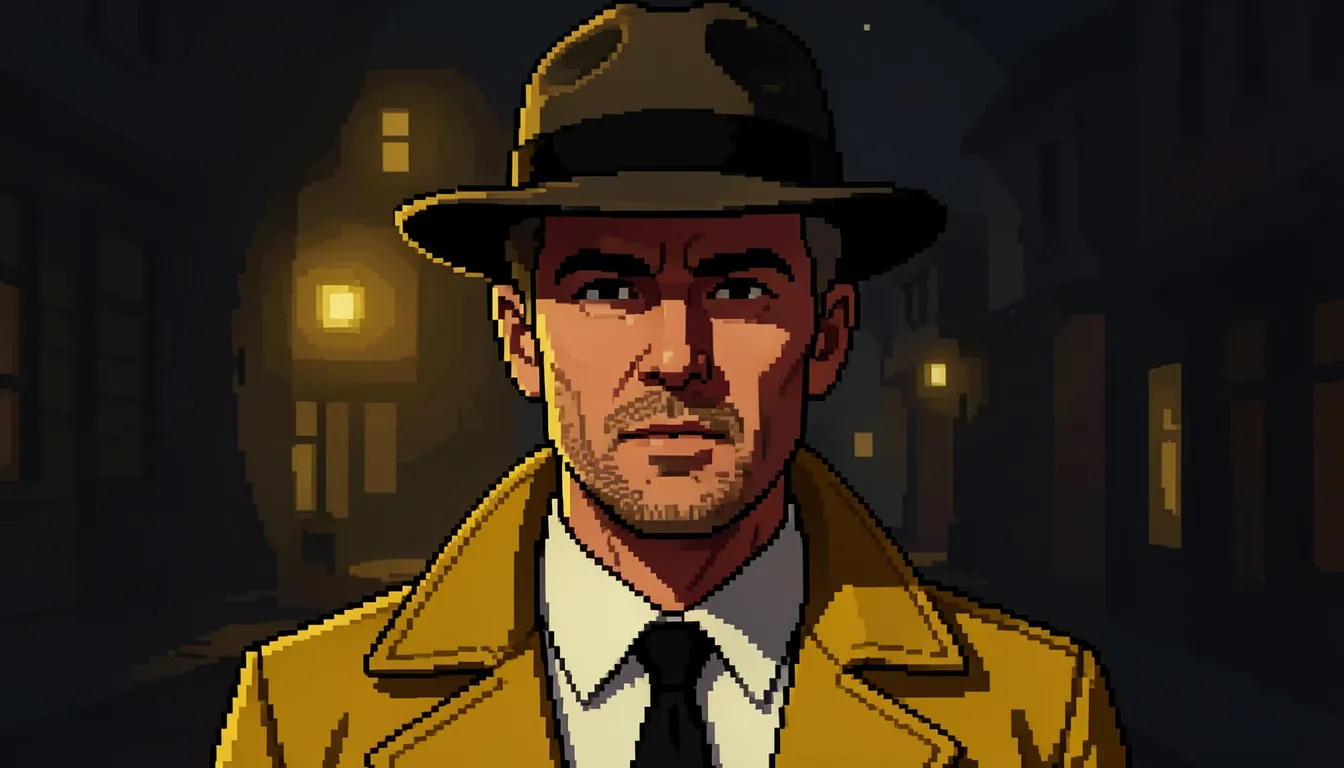
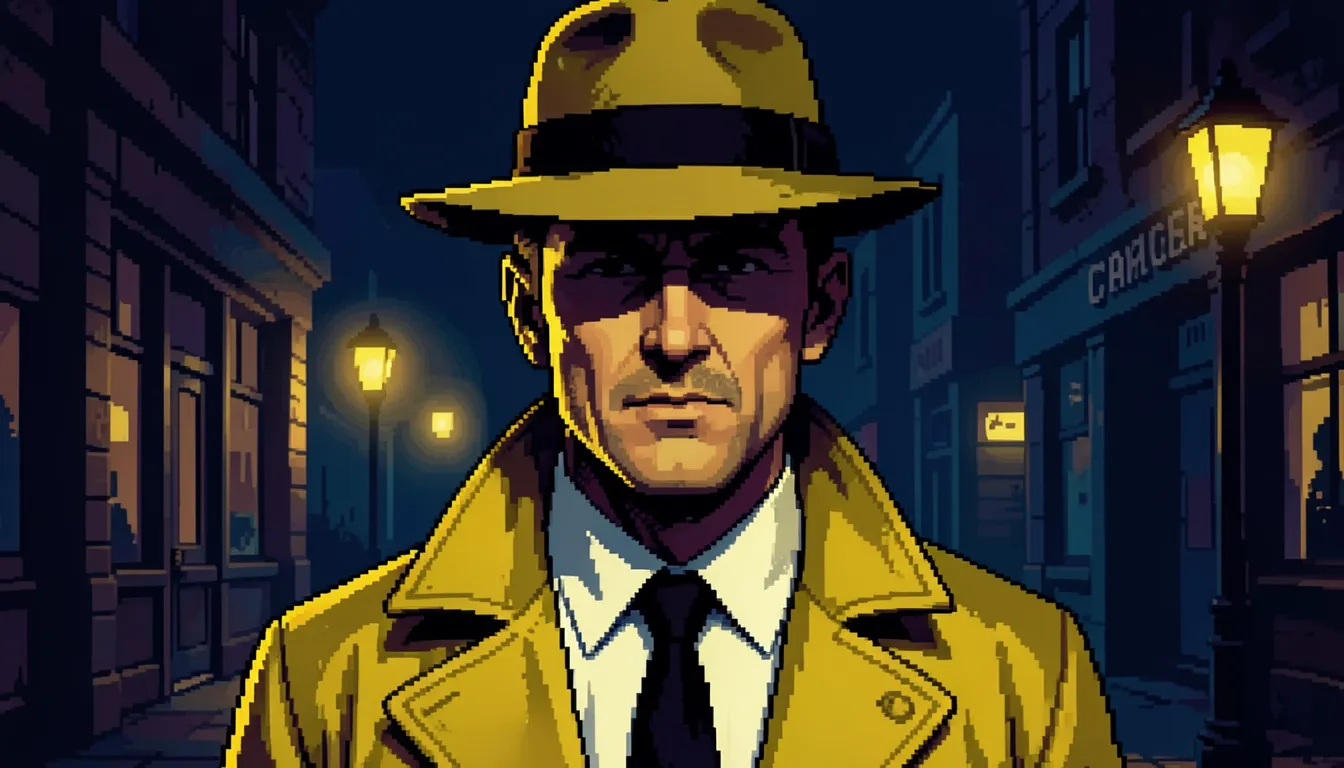
Replace Micah's portrait in the convent close-up, sized to match Eleanor's face
Copilot-Session: 2efd2b3f-e188-4d71-9c01-0ff9a2e3296c

diff --git a/tools/art/closeup.py b/tools/art/closeup.py
@@ -8,7 +8,7 @@ chunky pixels, a tight palette and ordered dithering, inside a dark bevelled fra
 - rose_closeup: Rose calling Micah back from her door.
 - beaten_closeup: Micah flat on his back on the cathedral steps in Act 3, looking up from under his hat.
 - convent_closeup: outside the convent at the end of Act 1, Micah on the left and Eleanor on the right, two portraits
-  in one panel split by a bar in the frame's colours.
+  in one panel split by a bar in the frame's colours. Micah's picture is zoomed so his face is the same size as hers.
 """
 import os
 
@@ -33,6 +33,11 @@ HALF = (AW - BAR) // 2
 MICAH_SRC = os.path.join(ROOT, "tools", "art", "src", "convent_micah.png")
 ELEANOR_SRC = os.path.join(ROOT, "tools", "art", "src", "convent_eleanor.png")
 MICAH_FACE_X, ELEANOR_FACE_X = 672, 665  # face centres in the 1344x768 sources
+# Face boxes in the sources (brow to chin, cheek to cheek) and the eye lines. Micah's picture is zoomed so his face
+# box covers the same area as Eleanor's, with his eyes on her eye line, so both faces come out the same size.
+MICAH_FACE_W, MICAH_FACE_H, MICAH_EYES_Y = 260, 235, 265
+ELEANOR_FACE_W, ELEANOR_FACE_H, ELEANOR_EYES_Y = 280, 320, 245
+MICAH_ZOOM = ((ELEANOR_FACE_W * ELEANOR_FACE_H) / (MICAH_FACE_W * MICAH_FACE_H)) ** 0.5
 # One palette for both stage variants, so they differ only where the dress is. Pinned to the one the pictures had
 # before the locks of hair were painted in, so her face reduces to exactly the same pixels as it always did.
 STAGE_PALETTE = [hx(c) for c in """
@@ -77,18 +82,22 @@ def beaten_closeup(src):
     return framed(img, palette_of(img.resize((AW, AH), Image.BOX), COLOURS))
 
 
-def portrait_crop(src, cx):
-    """One half of a two-portrait panel: the full height, as wide as the half's aspect, centred on the face at cx."""
+def portrait_crop(src, cx, zoom=1.0, eyes_y=None, target_eyes_y=None):
+    """One half of a two-portrait panel, as wide as the half's aspect, centred on the face at cx. At zoom 1 it is
+    the full height; zoomed in, it is 1/zoom of the height, placed so the eyes at eyes_y land where target_eyes_y
+    sits in a full-height crop."""
     img = src.convert("RGB")
     w, h = img.size
-    cw = round(h * HALF / AH)
+    ch = round(h / zoom)
+    cw = round(ch * HALF / AH)
+    y = 0 if eyes_y is None else int(np.clip(round(eyes_y - target_eyes_y / zoom), 0, h - ch))
     x = int(np.clip(cx - cw // 2, 0, w - cw))
-    return img.crop((x, 0, x + cw, h))
+    return img.crop((x, y, x + cw, y + ch))
 
 
 def convent_closeup(micah, eleanor):
-    """Outside the convent, the first time they meet: Micah on the left, Eleanor on the right."""
-    left = portrait_crop(micah, MICAH_FACE_X)
+    """Outside the convent, the first time they meet: Micah on the left, Eleanor on the right, faces the same size."""
+    left = portrait_crop(micah, MICAH_FACE_X, MICAH_ZOOM, MICAH_EYES_Y, ELEANOR_EYES_Y)
     right = portrait_crop(eleanor, ELEANOR_FACE_X)
     return framed_pair(left, right)
 

diff --git a/tests/art/test_convent_closeup.py b/tests/art/test_convent_closeup.py
@@ -41,6 +41,15 @@ class ConventCloseupTests(unittest.TestCase):
         self.assertAlmostEqual(w / h, closeup.HALF / closeup.AH, delta=0.01)
         self.assertEqual(h, 768)
 
+    def test_micah_is_zoomed_so_his_face_matches_eleanors(self):
+        z = closeup.MICAH_ZOOM
+        self.assertAlmostEqual(closeup.MICAH_FACE_W * closeup.MICAH_FACE_H * z * z,
+                               closeup.ELEANOR_FACE_W * closeup.ELEANOR_FACE_H, delta=1)
+        w, h = closeup.portrait_crop(Image.open(closeup.MICAH_SRC), closeup.MICAH_FACE_X, z,
+                                     closeup.MICAH_EYES_Y, closeup.ELEANOR_EYES_Y).size
+        self.assertAlmostEqual(w / h, closeup.HALF / closeup.AH, delta=0.01)
+        self.assertEqual(h, round(768 / z))
+
     def test_frame_is_a_dark_border(self):
         a = np.asarray(self.panel.convert("L"), dtype=float)
         self.assertLess(a[0, :].mean(), 40)
